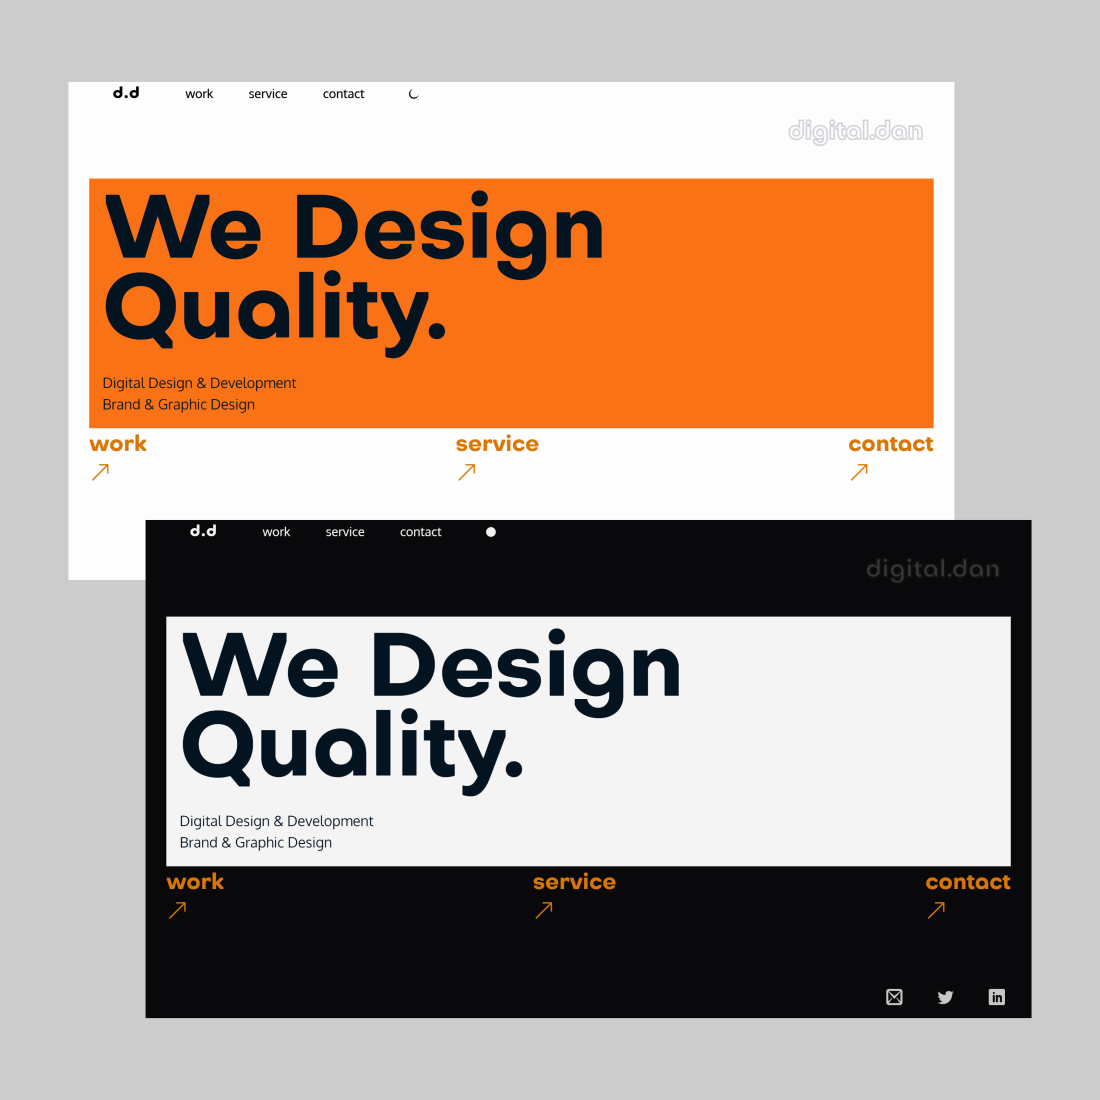
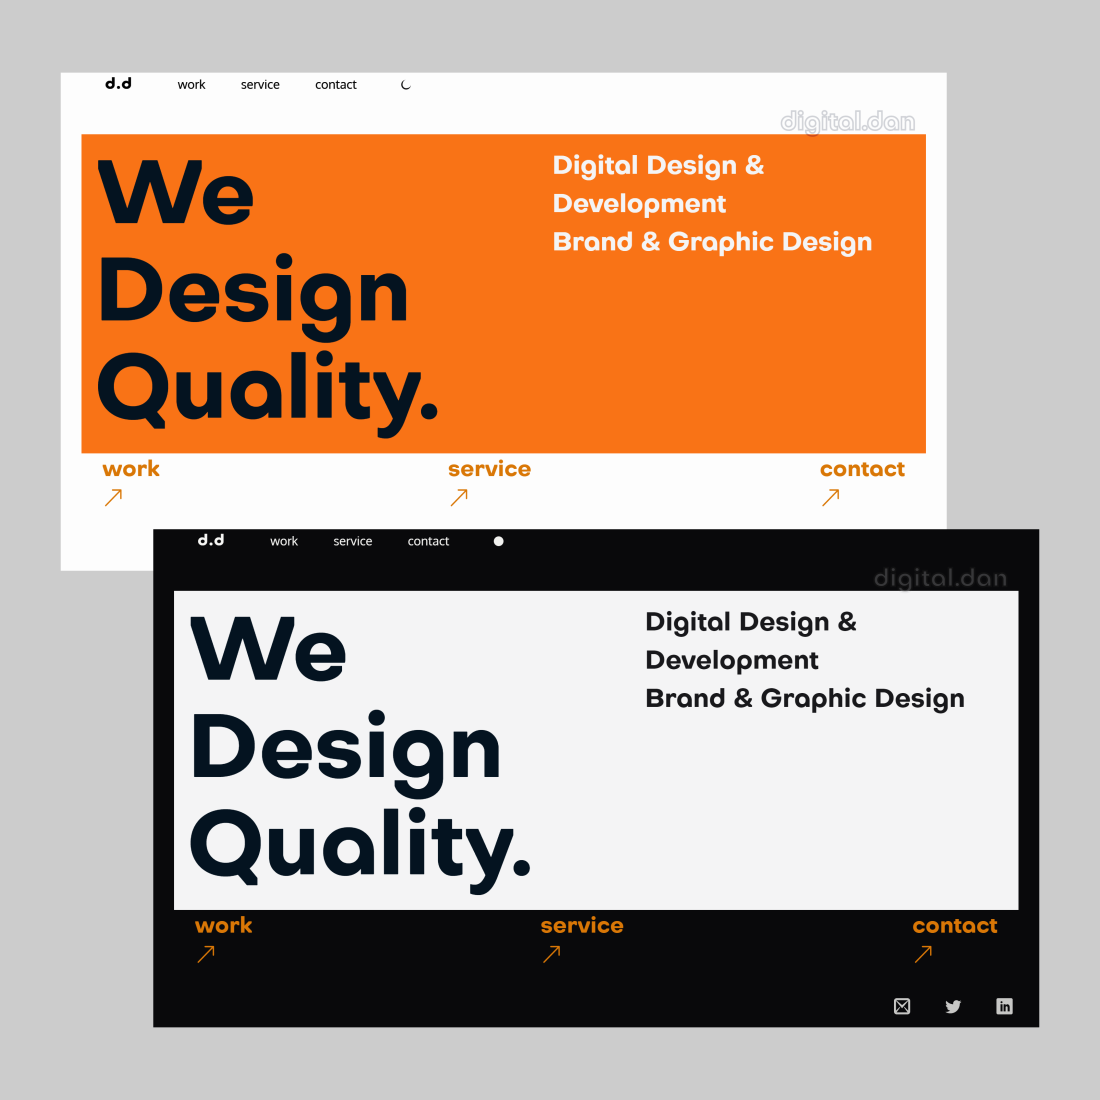
new header

Changed region(s): [[0.0309, 0.0618, 0.9582, 0.9582]]

diff --git a/components/Hero.js b/components/Hero.js
@@ -26,19 +26,21 @@ const Hero = () => {
     return (
         <main className="h-screen flex flex-col 
         justify-center items-center">
-            <motion.section className="z-50 w-full px-[1rem] md:px-[2rem]">
+            <motion.section className="z-50 w-full md:px-[2rem]">
 
                 <section className="paragraph bg-orange-500 dark:bg-zinc-100">
 
-                    <div className="text-[#041320]">
-                        <motion.h1 animate={wedesignAnimate} className="heroheader font-bold">We Design</motion.h1>
-                        <motion.h1 animate={wedesignAnimate2} className="heroheader font-bold">Quality.</motion.h1>
+                    <div className="text-[#041320] flex flex-col md:flex-row">
+                        <div className="flex flex-col">
+                            <motion.h1 animate={wedesignAnimate} className="heroheader font-bold w-[20%]">We Design</motion.h1>
+                            <motion.h1 animate={wedesignAnimate2} className="heroheader font-bold">Quality.</motion.h1></div>
                         <br />
-                        <motion.h2 animate={servicesAnimate}>
+                        <motion.h2 animate={servicesAnimate} className="lg:w-[50%] header
+                        text-zinc-100 dark:text-zinc-900">
                             Digital Design & Development<br />
                             Brand & Graphic Design</motion.h2></div>
                 </section>   <motion.section animate={wedesignAnimate2}
-                    className="flex flex-row justify-between herolinks font-bold">
+                    className="flex flex-row justify-between herolinks font-bold px-[2rem]">
 
                     <Link href="/Work">
                         <h2 className=" text-amber-600 cursor-pointer"> work <BsArrowUpRight /></h2>

diff --git a/styles/globals.css b/styles/globals.css
@@ -268,7 +268,7 @@ html.lenis {
   .heroheader {
     font-family: 'octarine';
     font-size: clamp(16px, calc(16px + 9vw), 10vw);
-    line-height: 90%;
+    line-height: 110%;
   }
   .herolinks {
     font-family: 'octarine';
